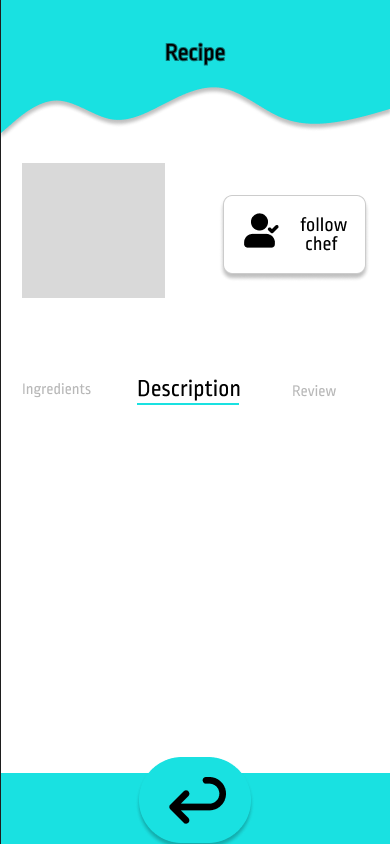
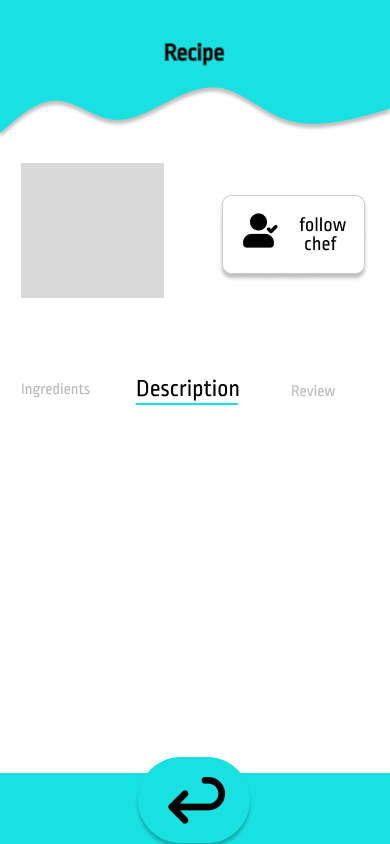
caso d'uso:-sistemazione item

diff --git a/src/main/java/com/example/foodo/graphic/guiclass/NewRecipeControllerGUI.java b/src/main/java/com/example/foodo/graphic/guiclass/NewRecipeControllerGUI.java
@@ -136,8 +136,8 @@ public class NewRecipeControllerGUI{
         FileChooser fileChooser=new FileChooser();
         fileChooser.getExtensionFilters().addAll(new FileChooser.ExtensionFilter("Imagine Files","*.png","*.jpg"));
         file = fileChooser.showOpenDialog(stage).getAbsoluteFile();
-        RecipeImage.setFitHeight(150);
-        RecipeImage.setFitWidth(150);
+        RecipeImage.setFitHeight(148);
+        RecipeImage.setFitWidth(158);
         RecipeImage.setImage(ImageConverterSupport.fromFileToImage(file));
         path= file.getAbsolutePath();
     }
